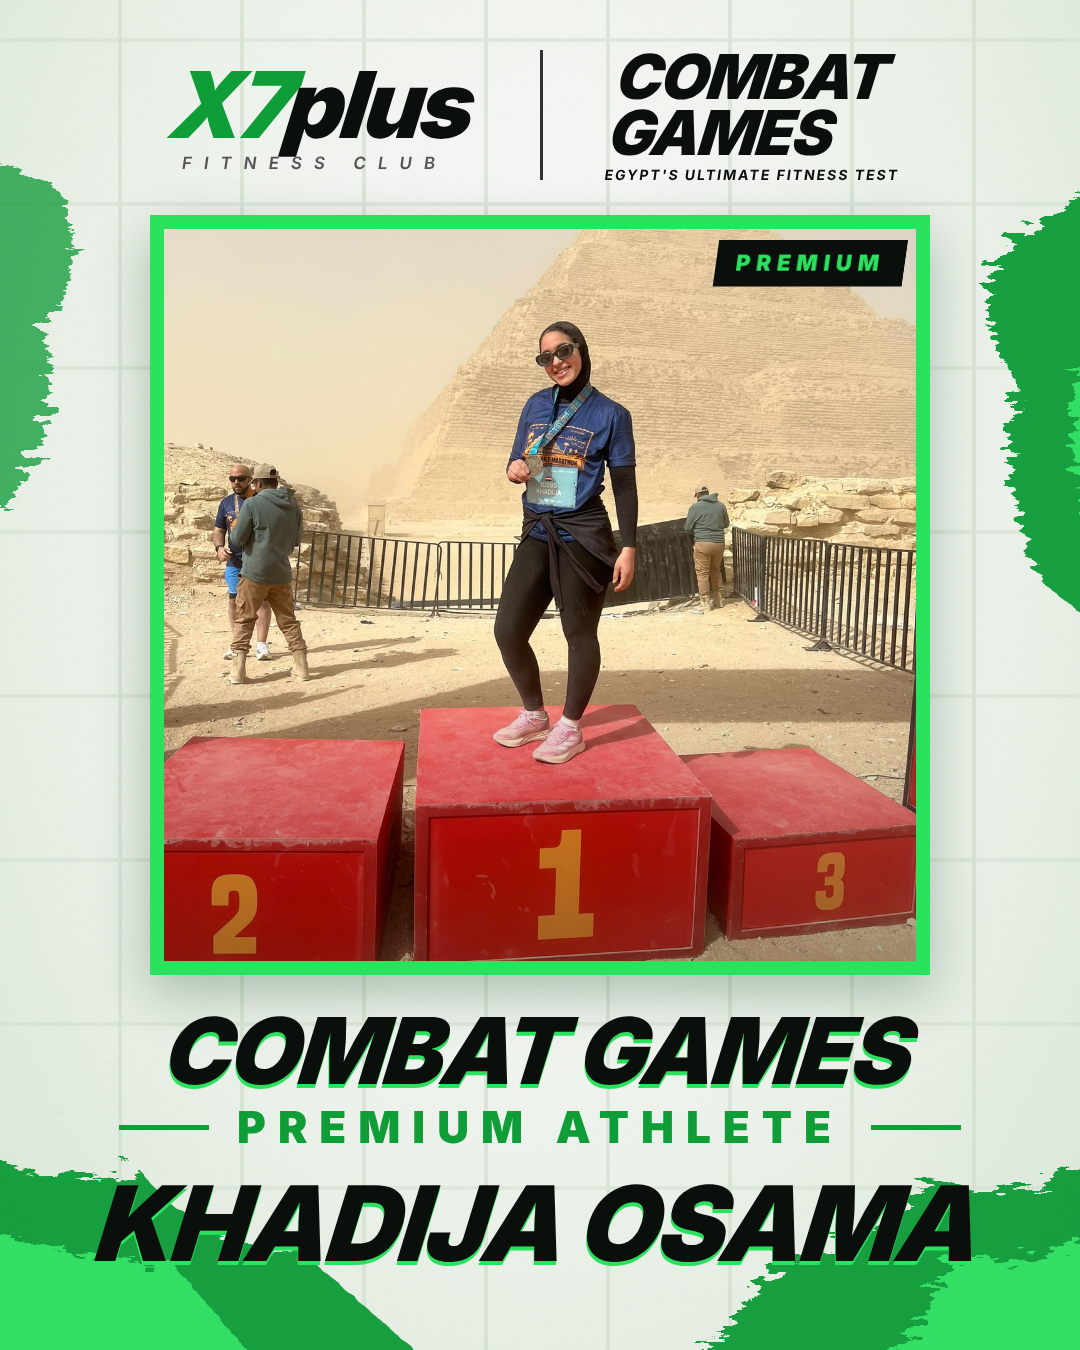
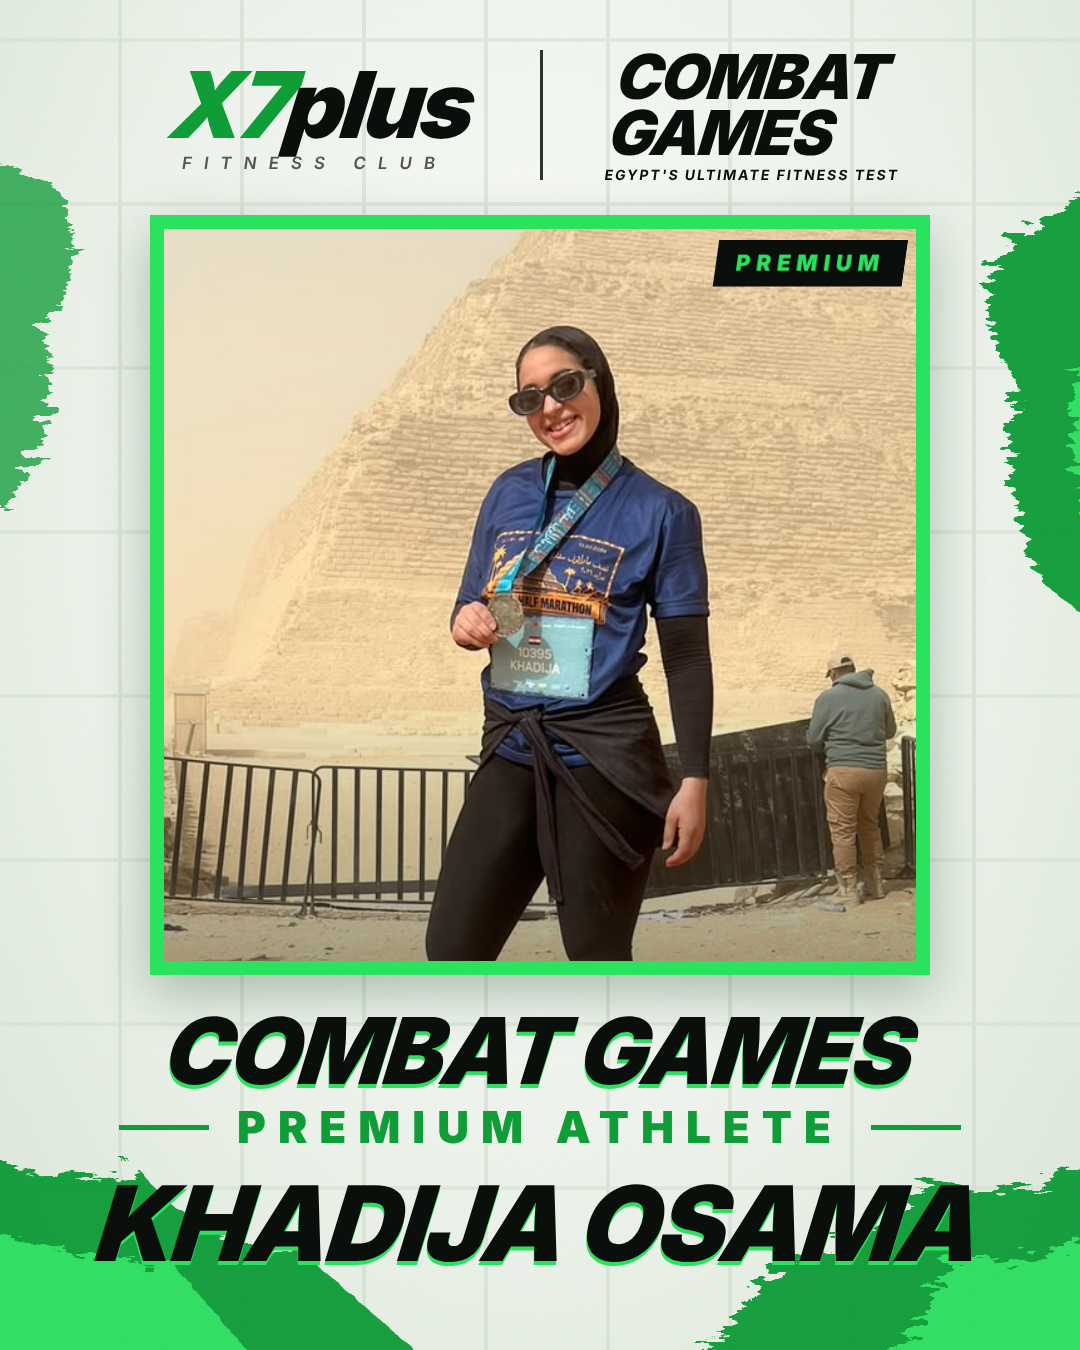
Khadija Osama: Premium only, half-body zoom; add zoom/origin options
Claude-Session: https://claude.ai/code/session_01S3ChKFh5yz7vU8VsDH4XAg

Changed region(s): [[0.1528, 0.1556, 0.8556, 0.7156], [0.7028, 0.1556, 0.8556, 0.2489], [0.7333, 0.2178, 0.7639, 0.2489]]

diff --git a/combat-games-posts/template.html b/combat-games-posts/template.html
@@ -62,5 +62,5 @@ document.getElementById('role').textContent=tier==='elite'?'ELITE ATHLETE':'PREM
 document.getElementById('badge').textContent=tier.toUpperCase();
 document.getElementById('name').textContent=p.get('name')||'ATHLETE NAME';
 const ph=p.get('photo');
-if(ph){const i=document.getElementById('photo');i.onload=()=>{i.style.display="block";document.body.dataset.photo=1;document.getElementById('ph').style.display='none';document.body.dataset.ready=1};i.onerror=()=>document.body.dataset.ready=1;i.style.objectPosition=p.get('pos')||'50% 50%';i.src=ph}else document.body.dataset.ready=1;
+if(ph){const i=document.getElementById('photo');i.onload=()=>{i.style.display="block";document.body.dataset.photo=1;document.getElementById('ph').style.display='none';document.body.dataset.ready=1};i.onerror=()=>document.body.dataset.ready=1;i.style.transform='scale('+(p.get('zoom')||1)+')';i.style.transformOrigin=p.get('origin')||'50% 50%';i.style.objectPosition=p.get('pos')||'50% 50%';i.src=ph}else document.body.dataset.ready=1;
 </script></body></html>

diff --git a/combat-games-posts/render.js b/combat-games-posts/render.js
@@ -5,7 +5,7 @@ const path=require('path');
  const [tier='premium',name='Athlete Name',photo='',out]=process.argv.slice(2);
  const b=await chromium.launch({executablePath:'/opt/pw-browsers/chromium'});
  const pg=await b.newPage({viewport:{width:1080,height:1350}});
- const q=new URLSearchParams({tier,name:name.toUpperCase()});if(process.env.POS)q.set('pos',process.env.POS);
+ const q=new URLSearchParams({tier,name:name.toUpperCase()});if(process.env.POS)q.set('pos',process.env.POS);if(process.env.ZOOM)q.set('zoom',process.env.ZOOM);if(process.env.ORIGIN)q.set('origin',process.env.ORIGIN);
  if(photo)q.set('photo','file://'+path.resolve(photo));
  await pg.goto('file://'+path.resolve(__dirname,'template.html')+'?'+q);
  await pg.waitForSelector('body[data-ready]');
